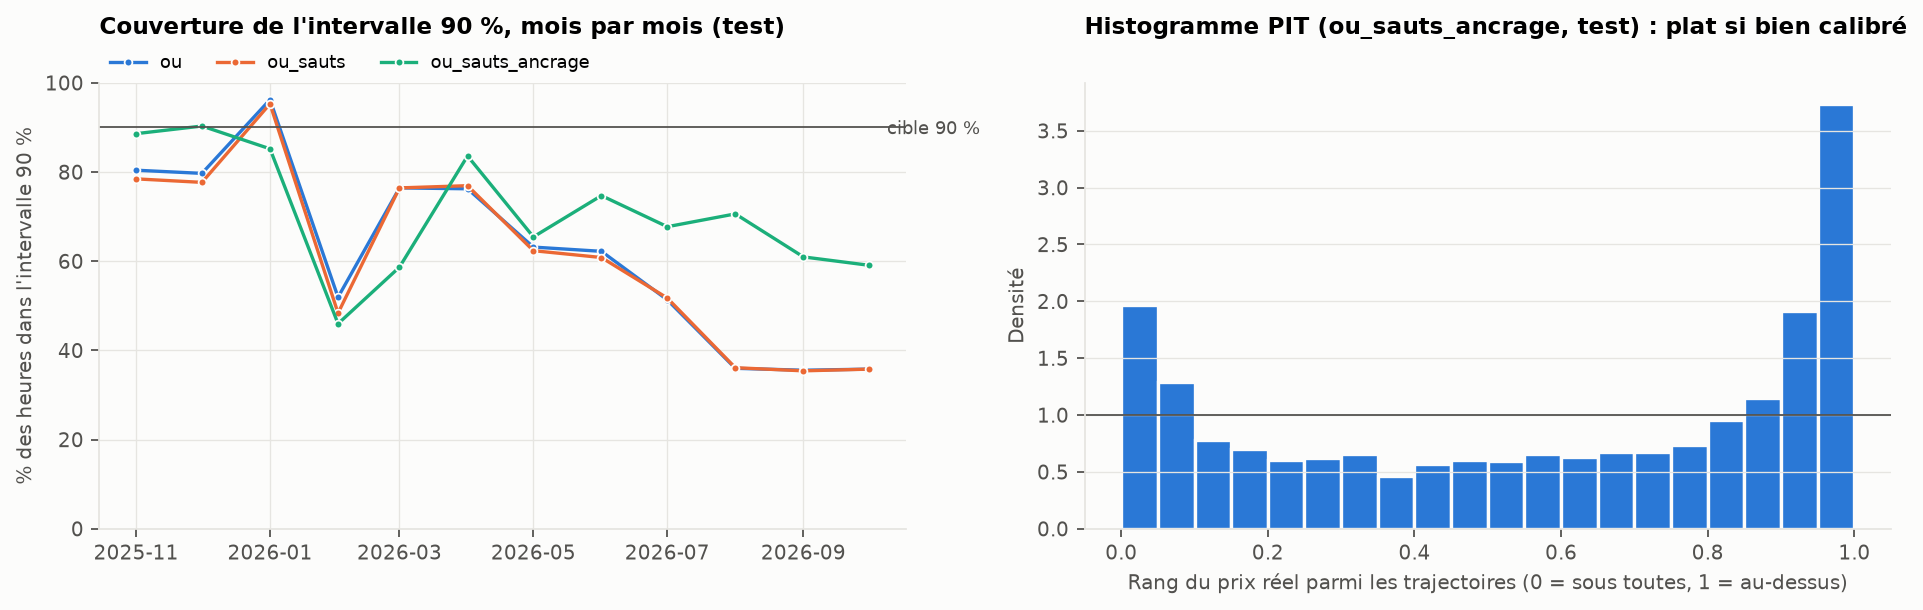
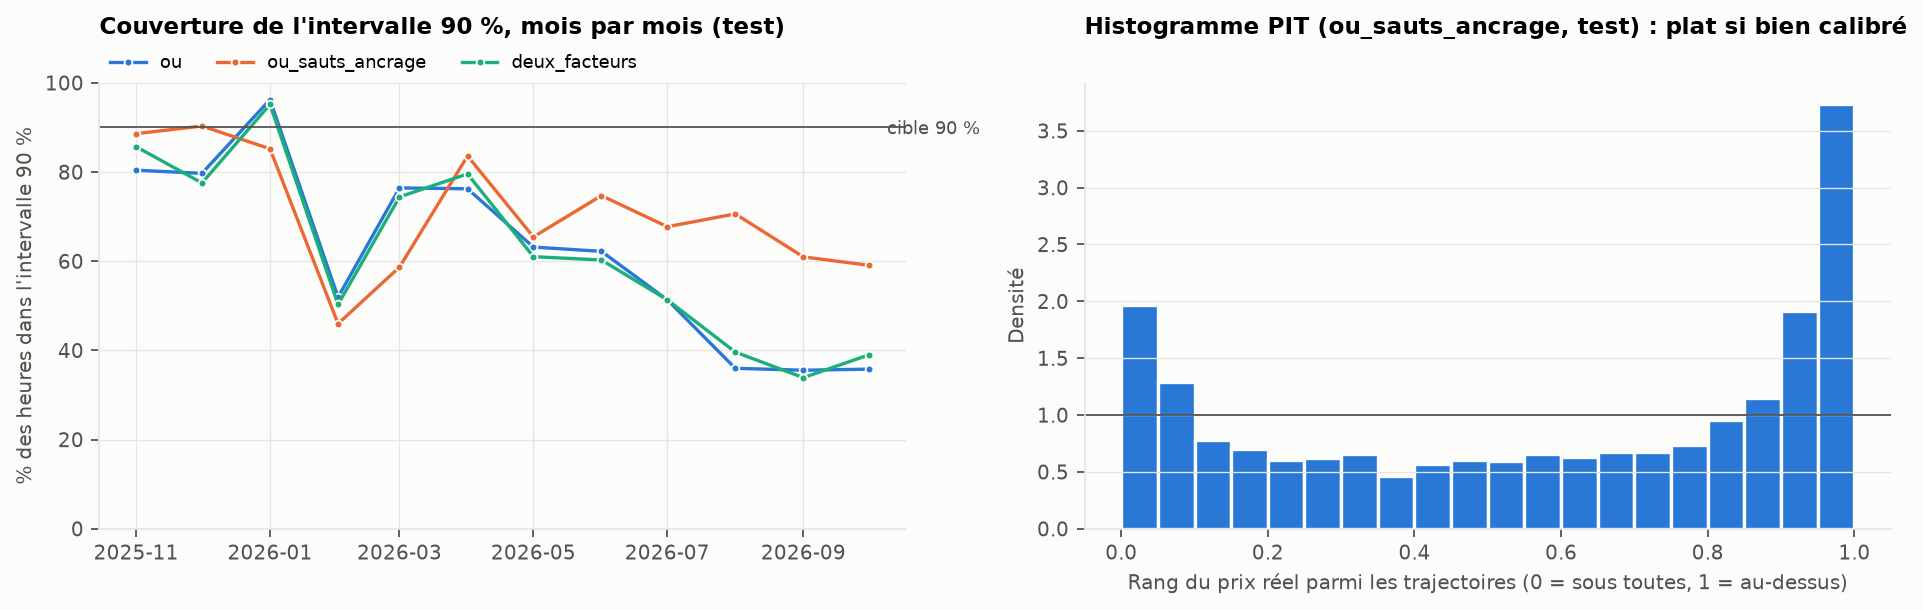
Volet 2 : modèle de prix à deux facteurs, résultats et diagnostic

diff --git a/src/elecfr/simulation.py b/src/elecfr/simulation.py
@@ -21,6 +21,16 @@ Modèle : prix(t) = partie déterministe(t) + résidu(t)
 4. Option « ancrage » : la partie déterministe est recalée pour que sa
    moyenne sur les N derniers jours connus égale le prix moyen observé
    sur ces jours. Utile quand le niveau des prix change (prix du gaz, du CO2).
+5. Option « deux facteurs » : le résidu est séparé en
+       résidu(t) = N(jour) + u(t)
+   - N : niveau journalier (moyenne du résidu sur le jour local), lent et
+     persistant, AR(1) jour après jour : N(j) = φ_N·N(j-1) + η(j), avec des
+     chocs η tirés parmi les chocs journaliers observés (queues épaisses) ;
+   - u : écart horaire autour de ce niveau, AR(1) horaire avec sauts (1-3).
+   Dans le modèle à un facteur, les écarts se compensent en quelques
+   heures : la moyenne d'un mois simulé ne varie presque pas, alors que les
+   vrais prix restent durablement hauts ou bas. Le niveau journalier
+   persistant redonne cette incertitude sur le niveau du mois.
 
 Tout est en NumPy pur (pas de statsmodels ici) : la même fonction sert au
 script de validation et à l'API, sans seconde implémentation.
@@ -70,14 +80,34 @@ class PriceModel:
     sauts: np.ndarray = field(default_factory=lambda: np.array([]))
     decalage: float = 0.0            # recalage du niveau (ancrage)
     dernier_residu: float = 0.0      # écart au « normal » à la dernière heure connue
+    # Deux facteurs : niveau journalier N (AR(1) quotidien)
+    deux_facteurs: bool = False
+    phi_n: float = 0.0
+    chocs_n: np.ndarray = field(default_factory=lambda: np.array([]))
+    dernier_niveau: float = 0.0
     infos: dict = field(default_factory=dict)
 
     @property
     def demi_vie_h(self) -> float:
         return float(np.log(2) / -np.log(self.phi)) if 0 < self.phi < 1 else float("inf")
 
+    @property
+    def demi_vie_niveau_j(self) -> float | None:
+        if not self.deux_facteurs:
+            return None
+        return float(np.log(2) / -np.log(self.phi_n)) if 0 < self.phi_n < 1 else float("inf")
 
-def fit(prix: pd.Series, cal: pd.DataFrame, sauts: bool = True, ancrage_jours: int | None = None) -> PriceModel:
+
+def _ar1(series: np.ndarray) -> tuple[float, np.ndarray]:
+    """φ par moindres carrés sur les paires consécutives connues, et les chocs."""
+    r, r1 = series[1:], series[:-1]
+    pair = ~np.isnan(r) & ~np.isnan(r1)
+    phi = float(np.dot(r1[pair], r[pair]) / np.dot(r1[pair], r1[pair]))
+    return phi, r[pair] - phi * r1[pair]
+
+
+def fit(prix: pd.Series, cal: pd.DataFrame, sauts: bool = True, ancrage_jours: int | None = None,
+        deux_facteurs: bool = False) -> PriceModel:
     """Estime le modèle sur une fenêtre d'heures consécutives (index UTC)."""
     ok = prix.notna().to_numpy()
     t0 = prix.index[0]
@@ -85,11 +115,18 @@ def fit(prix: pd.Series, cal: pd.DataFrame, sauts: bool = True, ancrage_jours: i
     beta, *_ = np.linalg.lstsq(X[ok], prix.to_numpy()[ok], rcond=None)
     resid = pd.Series(prix.to_numpy() - X @ beta, index=prix.index)
 
-    # AR(1) sur les paires d'heures consécutives toutes deux connues
-    r, r1 = resid.to_numpy()[1:], resid.to_numpy()[:-1]
-    pair = ~np.isnan(r) & ~np.isnan(r1)
-    phi = float(np.dot(r1[pair], r[pair]) / np.dot(r1[pair], r1[pair]))
-    eps = r[pair] - phi * r1[pair]
+    phi_n, chocs_n, dernier_niveau = 0.0, np.array([]), 0.0
+    if deux_facteurs:
+        # Niveau journalier N = moyenne du résidu sur chaque jour local
+        jour = cal["date_local"].to_numpy()
+        niveau = resid.groupby(jour).mean()
+        niveau = niveau.reindex(pd.date_range(niveau.index.min(), niveau.index.max(), freq="D"))
+        phi_n, chocs_n = _ar1(niveau.to_numpy())
+        dernier_niveau = float(niveau.dropna().iloc[-1])
+        resid = resid - niveau.reindex(jour).to_numpy()     # u(t) = résidu - N(jour)
+
+    # AR(1) horaire sur les paires d'heures consécutives toutes deux connues
+    phi, eps = _ar1(resid.to_numpy())
 
     p_saut, tailles = 0.0, np.array([])
     if sauts:
@@ -107,6 +144,13 @@ def fit(prix: pd.Series, cal: pd.DataFrame, sauts: bool = True, ancrage_jours: i
         decalage = float(np.nanmean(resid.to_numpy()[recent]))
 
     last = resid.dropna()
+    if deux_facteurs:      # le décalage d'ancrage porte sur le niveau, pas sur l'écart horaire
+        return PriceModel(beta=beta, t0=t0, phi=phi, sigma=sigma, p_saut=p_saut, sauts=tailles,
+                          decalage=decalage, dernier_residu=float(last.iloc[-1]),
+                          deux_facteurs=True, phi_n=phi_n, chocs_n=chocs_n,
+                          dernier_niveau=dernier_niveau - decalage,
+                          infos={"n_heures": int(ok.sum()), "sauts": bool(sauts),
+                                 "ancrage_jours": ancrage_jours or 0, "deux_facteurs": True})
     return PriceModel(beta=beta, t0=t0, phi=phi, sigma=sigma, p_saut=p_saut, sauts=tailles,
                       decalage=decalage, dernier_residu=float(last.iloc[-1]) - decalage,
                       infos={"n_heures": int(ok.sum()), "sauts": bool(sauts), "ancrage_jours": ancrage_jours or 0})
@@ -119,21 +163,31 @@ def simulate(model: PriceModel, cal_future: pd.DataFrame, n: int = 1000, seed: i
     det = design(cal_future, model.t0) @ model.beta + model.decalage
     H = len(det)
     x = np.full(n, model.dernier_residu)
+    niveau = np.full(n, model.dernier_niveau)
+    jours = cal_future["date_local"].to_numpy() if model.deux_facteurs else None
     out = np.empty((n, H))
     for t in range(H):
+        if model.deux_facteurs and (t == 0 or jours[t] != jours[t - 1]):
+            # nouveau jour local : le niveau évolue, choc tiré parmi les chocs journaliers observés
+            niveau = model.phi_n * niveau + rng.choice(model.chocs_n, size=n)
         shock = rng.normal(0.0, model.sigma, n)
         if model.p_saut > 0 and len(model.sauts):
             jump = rng.random(n) < model.p_saut
             shock[jump] = rng.choice(model.sauts, size=int(jump.sum()))
         x = model.phi * x + shock
-        out[:, t] = det[t] + x
+        out[:, t] = det[t] + x + (niveau if model.deux_facteurs else 0.0)
     return out
 
 
 # --- Un mois complet : utilisé par la validation (script 13) ET par l'API ------
 FENETRE_MOIS = 24
-VARIANTES = {"ou": {"sauts": False}, "ou_sauts": {"sauts": True},
-             "ou_sauts_ancrage": {"sauts": True, "ancrage_jours": 28}}
+VARIANTES = {
+    "ou": {"sauts": False},
+    "ou_sauts": {"sauts": True},
+    "ou_sauts_ancrage": {"sauts": True, "ancrage_jours": 28},
+    "deux_facteurs": {"sauts": True, "deux_facteurs": True},
+    "deux_facteurs_ancrage": {"sauts": True, "ancrage_jours": 28, "deux_facteurs": True},
+}
 
 
 def calendrier(index_utc: pd.DatetimeIndex, tz: str = "Europe/Paris") -> pd.DataFrame:

diff --git a/scripts/13_simulate_prices.py b/scripts/13_simulate_prices.py
@@ -4,9 +4,10 @@ Protocole, calqué sur le volet 1 :
 - Pour chaque mois M, le modèle est estimé sur les 24 mois qui précèdent
   (tout ce qui est connu la veille du 1er du mois : les prix d'un jour sont
   publiés la veille), puis 1 000 trajectoires horaires de M sont simulées.
-- Trois variantes : « ou » (déterministe + retour à la moyenne),
+- Cinq variantes : « ou » (déterministe + retour à la moyenne),
   « ou_sauts » (+ sauts), « ou_sauts_ancrage » (+ niveau recalé sur les
-  28 derniers jours).
+  28 derniers jours), et le modèle à deux facteurs (niveau journalier
+  persistant + écart horaire) sans et avec ancrage.
 - Choix de la variante sur la VALIDATION (nov. 2024 → oct. 2025) par le CRPS
   moyen, la règle de score qui juge à la fois la justesse et la largeur des
   intervalles ; test une seule fois (nov. 2025 → oct. 2026).
@@ -52,7 +53,8 @@ def run_period(a, b, params, keep=False):
         ev = simulation.evaluate(sims, fut["prix"].to_numpy())
         pits.append(ev.pop("pit"))
         rows.append({"mois": m0.strftime("%Y-%m"), "heures": int(fut["prix"].notna().sum()), **ev,
-                     "phi": model.phi, "demi_vie_h": model.demi_vie_h, "p_saut": model.p_saut})
+                     "phi": model.phi, "demi_vie_h": model.demi_vie_h, "p_saut": model.p_saut,
+                     "phi_niveau": model.phi_n if model.deux_facteurs else np.nan})
         if keep:
             q = np.quantile(sims, simulation.QUANTILES, axis=0)
             kept.append(pd.DataFrame(q.T, index=fut.index, columns=[f"q{int(x * 100):02d}" for x in simulation.QUANTILES])
@@ -78,7 +80,7 @@ for nom, params in VARIANTES.items():
         mlflow.set_tags({"variante": nom, "periode": "validation"})
         mlflow.log_params({**{k: str(v) for k, v in params.items()}, "fenetre_mois": FENETRE_MOIS, "n_traj": N_TRAJ})
         mlflow.log_metrics(agg)
-    print(f"[validation] {nom:<18} CRPS {agg['crps']:6.2f} €/MWh ; couverture 90 % : {agg['couverture_90']:.1%} ; "
+    print(f"[validation] {nom:<22} CRPS {agg['crps']:6.2f} €/MWh ; couverture 90 % : {agg['couverture_90']:.1%} ; "
           f"50 % : {agg['couverture_50']:.1%} ; largeur 90 % : {agg['largeur_90']:.0f} €/MWh")
 
 val = pd.DataFrame(resultats)
@@ -96,7 +98,7 @@ for nom, params in VARIANTES.items():          # le test de toutes les variantes
         mlflow.log_metrics(agg)
     if kept is not None:
         quant_test = kept
-    print(f"[test]       {nom:<18} CRPS {agg['crps']:6.2f} €/MWh ; couverture 90 % : {agg['couverture_90']:.1%} ; "
+    print(f"[test]       {nom:<22} CRPS {agg['crps']:6.2f} €/MWh ; couverture 90 % : {agg['couverture_90']:.1%} ; "
           f"50 % : {agg['couverture_50']:.1%} ; négatifs réels {agg['part_negatifs_reel']:.1%} / simulés {agg['part_negatifs_simule']:.1%}")
 
 import json  # noqa: E402
@@ -114,7 +116,7 @@ md = res[cols].round(3).to_markdown(index=False)
 detail = details[(retenue, "test")]
 (config.REPORTS_DIR / "simulation_test_par_mois.md").write_text(
     detail[["mois", "crps", "couverture_90", "couverture_50", "moyenne_reelle", "moyenne_simulee_q05",
-            "moyenne_simulee_q95", "phi", "demi_vie_h", "p_saut"]].round(3).to_markdown(index=False), encoding="utf-8")
+            "moyenne_simulee_q95", "phi", "demi_vie_h", "p_saut", "phi_niveau"]].round(3).to_markdown(index=False), encoding="utf-8")
 print("\n" + md)
 print(f"\nDétail mensuel du test ({retenue}) :\n" + detail[["mois", "crps", "couverture_90", "moyenne_reelle",
       "moyenne_simulee_q05", "moyenne_simulee_q95"]].round(2).to_string(index=False))
@@ -144,10 +146,18 @@ fig.tight_layout()
 fig.savefig(out_fig / "simulation_eventail.png", dpi=160, bbox_inches="tight")
 plt.close(fig)
 
+# Au plus 3 variantes en couleur (lisibilité, daltonisme) : la base, la meilleure à un
+# facteur et la meilleure à deux facteurs, selon la validation.
+v = val.set_index("variante")["crps"]
+un = v[[k for k in v.index if not k.startswith("deux")]]
+deux = v[[k for k in v.index if k.startswith("deux")]]
+montrees = list(dict.fromkeys(["ou", un.idxmin(), deux.idxmin() if len(deux) else retenue]))[:3]
+COUL = dict(zip(montrees, ("#2a78d6", "#eb6834", "#1baf7a")))
+
 # Calibration : couverture par mois (test) et PIT de la variante retenue
 fig, axes = plt.subplots(1, 2, figsize=(12, 3.9))
 ax = axes[0]
-for nom, col in zip(VARIANTES, ("#2a78d6", "#eb6834", "#1baf7a")):
+for nom, col in COUL.items():
     d = details[(nom, "test")]
     ax.plot(pd.to_datetime(d["mois"]), d["couverture_90"] * 100, color=col, marker="o", ms=3.5, mec=SURFACE,
             mew=0.8, label=nom)
@@ -169,4 +179,21 @@ ax.grid(axis="x", visible=False)
 fig.tight_layout()
 fig.savefig(out_fig / "simulation_calibration.png", dpi=160, bbox_inches="tight")
 plt.close(fig)
-print(f"Graphiques : {out_fig / 'simulation_eventail.png'}, {out_fig / 'simulation_calibration.png'}")
+# Moyenne mensuelle : intervalle 90 % simulé contre prix moyen réel (le défaut visé par les deux facteurs)
+fig, ax = plt.subplots(figsize=(11, 4))
+decal = {nom: k for nom, k in zip(montrees, (-8, 0, 8))}
+for nom, col in COUL.items():
+    d = details[(nom, "test")]
+    x = pd.to_datetime(d["mois"]) + pd.to_timedelta(decal[nom], unit="D")
+    lo, hi = d["moyenne_simulee_q05"], d["moyenne_simulee_q95"]
+    ax.vlines(x, lo, hi, color=col, lw=4, alpha=0.85, label=f"{nom} : intervalle 90 %")
+d0 = details[(retenue, "test")]
+ax.plot(pd.to_datetime(d0["mois"]), d0["moyenne_reelle"], "o", color=INK, ms=6, mec=SURFACE, mew=1, label="Prix moyen réel")
+ax.set_ylabel("€/MWh")
+ax.set_title("Prix moyen du mois : intervalle 90 % simulé et réel (test)", pad=24)
+ax.legend(loc="lower left", bbox_to_anchor=(0, 1.0), ncol=4, fontsize=8, borderaxespad=0.3)
+fig.tight_layout()
+fig.savefig(out_fig / "simulation_moyenne_mensuelle.png", dpi=160, bbox_inches="tight")
+plt.close(fig)
+print(f"Graphiques : {out_fig / 'simulation_eventail.png'}, {out_fig / 'simulation_calibration.png'}, "
+      f"{out_fig / 'simulation_moyenne_mensuelle.png'}")

diff --git a/tests/test_simulation.py b/tests/test_simulation.py
@@ -62,3 +62,53 @@ def test_month_without_previous_prices_is_refused():
     df = fake_prices(end="2025-03-01")
     with pytest.raises(ValueError, match="Prix inconnus"):
         simulation.simulate_month(df, "2025-06", {"sauts": True}, n=50)
+
+
+def fake_two_factor(phi_n=0.9, sd_n=15.0, phi=0.8, sigma=5.0, start="2023-01-01", end="2025-04-01", seed=2):
+    """Prix factices avec un VRAI niveau journalier persistant + un écart horaire rapide."""
+    rng = np.random.default_rng(seed)
+    idx = pd.date_range(pd.Timestamp(start, tz="Europe/Paris").tz_convert("UTC"),
+                        pd.Timestamp(end, tz="Europe/Paris").tz_convert("UTC"), freq="h", inclusive="left")
+    cal = simulation.calendrier(idx)
+    det = 60 + 15 * np.sin(2 * np.pi * (cal["heure"].to_numpy() - 5) / 24)
+    days = cal["date_local"].to_numpy()
+    level, x, out = 0.0, 0.0, np.empty(len(idx))
+    for t in range(len(idx)):
+        if t == 0 or days[t] != days[t - 1]:
+            level = phi_n * level + rng.normal(0, sd_n)
+        x = phi * x + rng.normal(0, sigma)
+        out[t] = det[t] + level + x
+    return cal.assign(prix=out)
+
+
+def test_two_factor_fit_recovers_daily_persistence():
+    df = fake_two_factor()
+    m = simulation.fit(df["prix"], df, sauts=False, deux_facteurs=True)
+    assert abs(m.phi_n - 0.9) < 0.05                     # persistance du niveau journalier retrouvée
+    # φ horaire : estimé APRÈS retrait de la moyenne de chaque jour, il ne mesure
+    # que la persistance à l'intérieur d'une journée (biais vers le bas attendu).
+    assert 0.6 < m.phi < 0.8
+    assert m.demi_vie_niveau_j > 4
+
+
+def test_two_factor_gives_realistic_uncertainty_on_the_monthly_mean():
+    # Sur des données à niveau persistant, le modèle à un facteur sous-estime
+    # fortement la dispersion de la moyenne du mois ; le modèle à deux facteurs non.
+    df = fake_two_factor(end="2025-04-01")
+    one = simulation.simulate_month(df, "2025-03", {"sauts": False}, n=400)[1].mean(axis=1).std()
+    two = simulation.simulate_month(df, "2025-03", {"sauts": False, "deux_facteurs": True}, n=400)[1].mean(axis=1).std()
+    # Écart-type théorique de la moyenne sur n = 31 jours d'un niveau AR(1) (φ = 0,9 ; σ = 15)
+    # dont la valeur de départ est connue : σ/n · √Σ_i ((1 - φ^(n-i+1)) / (1 - φ))²
+    phi, sd, n = 0.9, 15.0, 31
+    theorie = sd / n * np.sqrt(sum(((1 - phi ** (n - i + 1)) / (1 - phi)) ** 2 for i in range(1, n + 1)))
+    assert abs(two - theorie) / theorie < 0.2
+    assert two > one
+
+
+def test_two_factor_month_uses_only_past_prices():
+    df = fake_two_factor(end="2025-04-01")
+    p = {"sauts": True, "deux_facteurs": True, "ancrage_jours": 28}
+    a = simulation.simulate_month(df, "2025-03", p, n=100)[1]
+    altered = df.copy()
+    altered.loc[altered.index >= simulation.bornes_mois("2025-03")[0], "prix"] -= 500
+    np.testing.assert_allclose(a, simulation.simulate_month(altered, "2025-03", p, n=100)[1])

diff --git a/src/elecfr/api.py b/src/elecfr/api.py
@@ -84,6 +84,11 @@ class Simulation(BaseModel):
     demi_vie_heures: float = Field(description="Temps pour qu'un écart au prix « normal » soit divisé par deux",
                                    examples=[12.76])
     probabilite_saut_par_heure: float = Field(examples=[0.0211])
+    phi_niveau_journalier: float | None = Field(
+        None, description="Persistance du niveau journalier, d'un jour au suivant (modèle à deux facteurs)",
+        examples=[0.93])
+    demi_vie_niveau_jours: float | None = Field(
+        None, description="Temps pour qu'un écart de niveau journalier soit divisé par deux", examples=[9.6])
     prix_moyen_du_mois: dict[str, float] = Field(description="Quantiles 5 %, 50 %, 95 % du prix moyen simulé du mois",
                                                  examples=[{"q05": 123.7, "q50": 139.3, "q95": 155.9}])
     couverture_90_reel: float | None = Field(description="Part des heures réelles dans l'intervalle 5 %–95 %, si connues",
@@ -170,6 +175,8 @@ def simulate(month: str = Query(..., description="Mois à simuler, AAAA-MM", exa
         "estime_du": model.infos["entraine_du"], "estime_au": model.infos["entraine_au"],
         "phi": round(model.phi, 4), "demi_vie_heures": round(model.demi_vie_h, 2),
         "probabilite_saut_par_heure": round(model.p_saut, 5),
+        "phi_niveau_journalier": round(model.phi_n, 4) if model.deux_facteurs else None,
+        "demi_vie_niveau_jours": round(model.demi_vie_niveau_j, 2) if model.deux_facteurs else None,
         "prix_moyen_du_mois": {k: round(float(np.quantile(moy, v)), 2) for k, v in (("q05", .05), ("q50", .5), ("q95", .95))},
         "couverture_90_reel": (round(float(((reel >= q[0]) & (reel <= q[4]))[known].mean()), 3) if known.any() else None),
         "heures": heures,

diff --git a/reports/simulation_test_par_mois.md b/reports/simulation_test_par_mois.md
@@ -1,14 +1,14 @@
-| mois    |   crps |   couverture_90 |   couverture_50 |   moyenne_reelle |   moyenne_simulee_q05 |   moyenne_simulee_q95 |   phi |   demi_vie_h |   p_saut |
-|:--------|-------:|----------------:|----------------:|-----------------:|----------------------:|----------------------:|------:|-------------:|---------:|
-| 2025-11 | 17.804 |           0.886 |           0.535 |           59.127 |                63.278 |                86.066 | 0.94  |       11.197 |    0.018 |
-| 2025-12 | 16.526 |           0.903 |           0.601 |           68.732 |                73.819 |                95.472 | 0.939 |       11.081 |    0.018 |
-| 2026-01 | 20.168 |           0.852 |           0.418 |          100.65  |                66.406 |                86.983 | 0.937 |       10.67  |    0.019 |
-| 2026-02 | 37.361 |           0.46  |           0.198 |           46.021 |                82.73  |               104.356 | 0.936 |       10.421 |    0.018 |
-| 2026-03 | 38.361 |           0.587 |           0.299 |           63.851 |                 6.54  |                27.542 | 0.936 |       10.498 |    0.018 |
-| 2026-04 | 24.2   |           0.836 |           0.364 |           39.799 |                32.195 |                53.592 | 0.935 |       10.277 |    0.018 |
-| 2026-05 | 31.294 |           0.655 |           0.395 |           52.202 |                 9.56  |                30.948 | 0.933 |       10.069 |    0.018 |
-| 2026-06 | 30.647 |           0.747 |           0.199 |           66.073 |                53.186 |                75.744 | 0.934 |       10.096 |    0.017 |
-| 2026-07 | 32.554 |           0.677 |           0.188 |           95.233 |                62.921 |                87.723 | 0.937 |       10.659 |    0.018 |
-| 2026-08 | 34.296 |           0.706 |           0.159 |          122.709 |                83.107 |               108.91  | 0.939 |       11.102 |    0.019 |
-| 2026-09 | 39.78  |           0.61  |           0.139 |          143.298 |               101.026 |               129.202 | 0.943 |       11.812 |    0.021 |
-| 2026-10 | 45.447 |           0.591 |           0.191 |          165.824 |               123.539 |               155.79  | 0.947 |       12.761 |    0.021 |
+| mois    |   crps |   couverture_90 |   couverture_50 |   moyenne_reelle |   moyenne_simulee_q05 |   moyenne_simulee_q95 |   phi |   demi_vie_h |   p_saut |   phi_niveau |
+|:--------|-------:|----------------:|----------------:|-----------------:|----------------------:|----------------------:|------:|-------------:|---------:|-------------:|
+| 2025-11 | 17.804 |           0.886 |           0.535 |           59.127 |                63.278 |                86.066 | 0.94  |       11.197 |    0.018 |          nan |
+| 2025-12 | 16.526 |           0.903 |           0.601 |           68.732 |                73.819 |                95.472 | 0.939 |       11.081 |    0.018 |          nan |
+| 2026-01 | 20.168 |           0.852 |           0.418 |          100.65  |                66.406 |                86.983 | 0.937 |       10.67  |    0.019 |          nan |
+| 2026-02 | 37.361 |           0.46  |           0.198 |           46.021 |                82.73  |               104.356 | 0.936 |       10.421 |    0.018 |          nan |
+| 2026-03 | 38.361 |           0.587 |           0.299 |           63.851 |                 6.54  |                27.542 | 0.936 |       10.498 |    0.018 |          nan |
+| 2026-04 | 24.2   |           0.836 |           0.364 |           39.799 |                32.195 |                53.592 | 0.935 |       10.277 |    0.018 |          nan |
+| 2026-05 | 31.294 |           0.655 |           0.395 |           52.202 |                 9.56  |                30.948 | 0.933 |       10.069 |    0.018 |          nan |
+| 2026-06 | 30.647 |           0.747 |           0.199 |           66.073 |                53.186 |                75.744 | 0.934 |       10.096 |    0.017 |          nan |
+| 2026-07 | 32.554 |           0.677 |           0.188 |           95.233 |                62.921 |                87.723 | 0.937 |       10.659 |    0.018 |          nan |
+| 2026-08 | 34.296 |           0.706 |           0.159 |          122.709 |                83.107 |               108.91  | 0.939 |       11.102 |    0.019 |          nan |
+| 2026-09 | 39.78  |           0.61  |           0.139 |          143.298 |               101.026 |               129.202 | 0.943 |       11.812 |    0.021 |          nan |
+| 2026-10 | 45.447 |           0.591 |           0.191 |          165.824 |               123.539 |               155.79  | 0.947 |       12.761 |    0.021 |          nan |

diff --git a/reports/simulation_resultats.md b/reports/simulation_resultats.md
@@ -1,8 +1,12 @@
-| periode    | variante         |   crps |   couverture_90 |   couverture_50 |   largeur_90 |   mae_mediane |   couverture_moyenne_mensuelle_90 |   part_negatifs_reel |   part_negatifs_simule |
-|:-----------|:-----------------|-------:|----------------:|----------------:|-------------:|--------------:|----------------------------------:|---------------------:|-----------------------:|
-| validation | ou               | 26.627 |           0.811 |           0.374 |      122.025 |        37.806 |                             0.25  |                0.058 |                  0.101 |
-| validation | ou_sauts         | 26.14  |           0.814 |           0.366 |      120.504 |        37.166 |                             0.25  |                0.058 |                  0.087 |
-| validation | ou_sauts_ancrage | 21.453 |           0.89  |           0.447 |      120.504 |        30.796 |                             0.417 |                0.058 |                  0.068 |
-| test       | ou               | 37.363 |           0.622 |           0.338 |      115.386 |        49.509 |                             0.083 |                0.054 |                  0.116 |
-| test       | ou_sauts         | 37.235 |           0.614 |           0.318 |      112.989 |        49.333 |                             0.083 |                0.054 |                  0.106 |
-| test       | ou_sauts_ancrage | 30.673 |           0.711 |           0.308 |      112.989 |        42.515 |                             0.167 |                0.054 |                  0.083 |
+| periode    | variante              |   crps |   couverture_90 |   couverture_50 |   largeur_90 |   mae_mediane |   couverture_moyenne_mensuelle_90 |   part_negatifs_reel |   part_negatifs_simule |
+|:-----------|:----------------------|-------:|----------------:|----------------:|-------------:|--------------:|----------------------------------:|---------------------:|-----------------------:|
+| validation | ou                    | 26.627 |           0.811 |           0.374 |      122.025 |        37.806 |                             0.25  |                0.058 |                  0.101 |
+| validation | ou_sauts              | 26.14  |           0.814 |           0.366 |      120.504 |        37.166 |                             0.25  |                0.058 |                  0.087 |
+| validation | ou_sauts_ancrage      | 21.453 |           0.89  |           0.447 |      120.504 |        30.796 |                             0.417 |                0.058 |                  0.068 |
+| validation | deux_facteurs         | 24.642 |           0.836 |           0.389 |      117.59  |        35.054 |                             0.75  |                0.058 |                  0.083 |
+| validation | deux_facteurs_ancrage | 24.645 |           0.836 |           0.389 |      117.59  |        35.059 |                             0.75  |                0.058 |                  0.083 |
+| test       | ou                    | 37.363 |           0.622 |           0.338 |      115.386 |        49.509 |                             0.083 |                0.054 |                  0.116 |
+| test       | ou_sauts              | 37.235 |           0.614 |           0.318 |      112.989 |        49.333 |                             0.083 |                0.054 |                  0.106 |
+| test       | ou_sauts_ancrage      | 30.673 |           0.711 |           0.308 |      112.989 |        42.515 |                             0.167 |                0.054 |                  0.083 |
+| test       | deux_facteurs         | 36.74  |           0.624 |           0.326 |      112.963 |        48.756 |                             0.25  |                0.054 |                  0.108 |
+| test       | deux_facteurs_ancrage | 36.734 |           0.624 |           0.326 |      112.963 |        48.749 |                             0.25  |                0.054 |                  0.108 |

diff --git a/README.md b/README.md
@@ -194,8 +194,9 @@ L'image ne contient que les dépendances de l'API (pas MLflow, deltalake ni PyTo
 - **Résidu à retour à la moyenne** : AR(1) horaire, x(t) = φ·x(t−1) + ε(t), version discrète d'un processus d'Ornstein-Uhlenbeck (demi-vie ln 2 / −ln φ). φ est contre-vérifié avec statsmodels (`AutoReg`), et la stationnarité du résidu par un test ADF.
 - **Sauts** : les chocs supérieurs à 4 écarts-types robustes sont modélisés à part (probabilité horaire et tailles observées, positives et négatives). Le reste des chocs est gaussien.
 - **Variante « ancrage »** : niveau recalé sur les 28 derniers jours connus.
+- **Modèle à deux facteurs** : le résidu est séparé en un niveau journalier lent (AR(1) d'un jour sur l'autre, chocs tirés parmi ceux observés) et un écart horaire rapide (AR(1) horaire avec sauts). Il vise l'incertitude sur le niveau du mois (voir les résultats ci-dessous).
 
-**Protocole.** Pour chaque mois, le modèle est estimé sur les 24 mois précédents, puis 1 000 trajectoires horaires du mois sont simulées. Les trois variantes (base, sauts, sauts + ancrage) sont comparées sur la validation (nov. 2024 → oct. 2025) par le CRPS, une règle de score qui juge à la fois la justesse et la largeur des intervalles. La variante retenue est évaluée une seule fois sur le test (nov. 2025 → oct. 2026).
+**Protocole.** Pour chaque mois, le modèle est estimé sur les 24 mois précédents, puis 1 000 trajectoires horaires du mois sont simulées. Les cinq variantes (base, sauts, sauts + ancrage, deux facteurs avec et sans ancrage) sont comparées sur la validation (nov. 2024 → oct. 2025) par le CRPS, une règle de score qui juge à la fois la justesse et la largeur des intervalles. La variante retenue est évaluée une seule fois sur le test (nov. 2025 → oct. 2026).
 
 **Validation face aux prix réels.**
 - Couverture des intervalles à 90 % et à 50 % (cibles : 90 % et 50 %).
